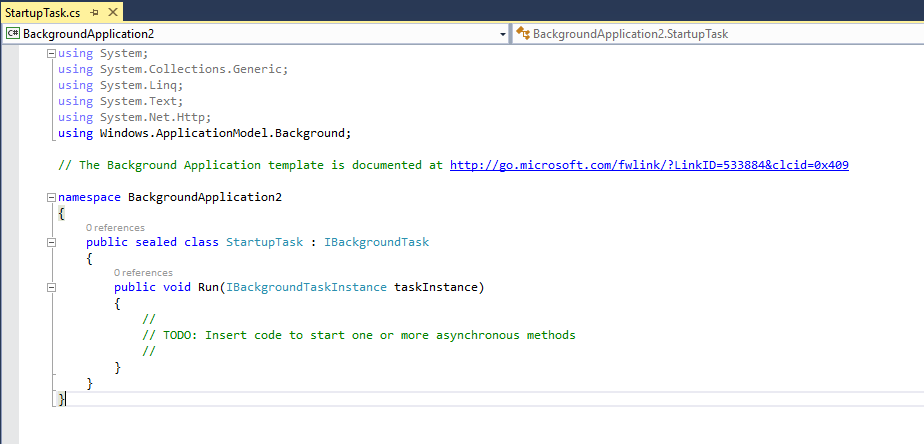
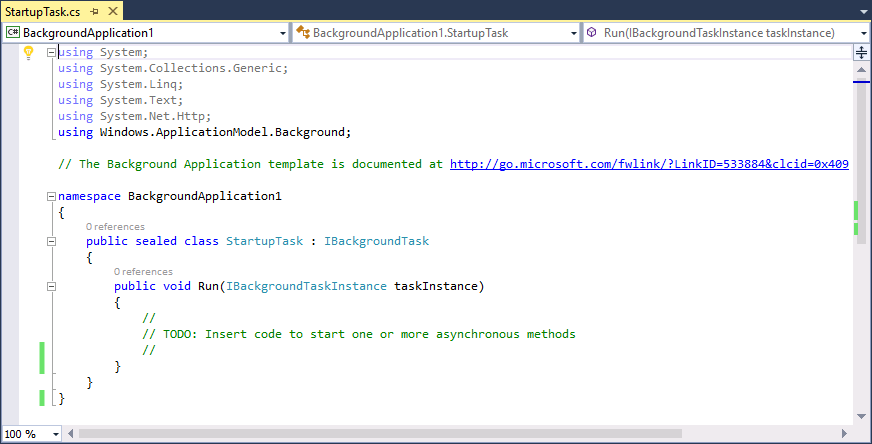
Add content to BackgroundApplication docs

diff --git a/en-US/win10/BackgroundApplications.md b/en-US/win10/BackgroundApplications.md
@@ -5,13 +5,114 @@ permalink: /en-US/win10/BackgroundApplications.htm
 lang: en-US
 ---
 
-##Background Applications
+#Developing Background Applications
 
-Background Applications are applications that have no direct UI. These applications launch at machine startup and run continuously without any process lifetime management resource use limitations. If they crash or exit the system will automatically restart them.
+Background Applications are applications that have no direct UI. Once deployed and configured, these applications launch at machine startup and run continuously without any process lifetime management resource use limitations. If they crash or exit the system will automatically restart them.
 These Background Applications have a very simple execution model. The templates create a class that implements the "IBackgroundTask" interface and generates the empty "Run" method. This "Run" method is the entry point to your application.
-
 
 ![IBackground Task]({{site.baseurl}}/images/BackgroundApplications/backgroundTaskScreenshot.png)
 
 There is one critical point to note: by default, the application will shut down when the run method completes. This means that apps that follow the common IoT pattern of running a server waiting for input or on a timer will find the app exit prematurely. To prevent this from happening you must call the "GetDeferral" method to prevent the application from exiting. You can find more information on the deferral pattern [here](https://msdn.microsoft.com/en-us/library/windows/apps/windows.applicationmodel.background.backgroundtaskdeferral.aspx).
+
+##Where can Background Applications be installed from? 
+
+You can download and install IoT templates to enable Background Applications from the Visual Studio Gallery [here](https://visualstudiogallery.msdn.microsoft.com/06507e74-41cf-47b2-b7fe-8a2624202d36).  Alternatively, the templates can be found by searching for `Windows IoT Core Project Templates` in the [Visual Studio Gallery](https://visualstudiogallery.msdn.microsoft.com/) or directly from Visual Studio in the Extension and Updates dialog (Tools > Extensions and Updates > Online).
+
+##What languages are available?
+
+**Background Application (IoT)** templates can be found for:
+
+* **C++** `File > New > Project > Installed > Visual C++ > Windows > Windows IoT Core`
+* **C#** `File > New > Project > Installed > Visual C# > Windows > Windows IoT Core`
+* **Visual Basic** `File > New > Project > Installed > Visual Basic > Windows > Windows IoT Core`
+* **JavaScript** `File > New > Project > Installed > JavaScript > Windows > Windows IoT Core`
+
+##How are Background Applications used? 
+
+Creating a Background Application is very similar to creating a Background Task.  When the Background Application starts, the Run method is called:
+
+{% highlight C++ %}
+public void Run(IBackgroundTaskInstance taskInstance)
+{
+}
+{% endhighlight %}
+
+When the Run method ends, unless a deferral object is created, the Background Application ends.  The common practice, for asynchronous programming is to take a deferral like this:
+
+{% highlight C++ %}
+private BackgroundTaskDeferral deferral;
+public void Run(IBackgroundTaskInstance taskInstance)
+{
+    deferral = taskInstance.GetDeferral();
+    
+    //
+    // TODO: Insert code to start one or more asynchronous methods
+    //
+}
+{% endhighlight %}
+
+Once a deferral is taken, the Background Application will continue until the deferral object's Complete method is called.
+
+{% highlight C++ %}
+
+deferral.Complete();
+
+{% endhighlight %}
+
+Between the Background Application's start and eventual end, most Universal Windows Platform (UWP) APIs are be available for use (to be aware of the exceptions, please see our list of [Unavailable APIs]({{site.baseurl}}/{{page.lang}}/win10/UnavailableApis.htm)).
+
+##How do Background Applications start?
+
+This question can be broken into deployment and invocation.  
+
+To deploy a Background Application, you can either:
+
+* Use Visual Studio's F5 (which will build, deploy and invoke).  For more detail, see our [Hello World sample]({{site.baseurl}}/{{page.lang}}/win10/samples/HelloWorld.htm#deploy-the-app-to-your-windows-iot-core-device) where we describe how to deploy and launch from Visual Studio.
+
+    **NOTE:** this will not configure your Background Application to start when the device boots.
+
+* Create an AppX in Visual Studio by selecting Project > Store > Create App Packages.  Once you have created an AppX, you can use [Web-based device management to deploy it]({{site.baseurl}}/{{page.lang}}/win10/tools/Webb.htm#apps) to your Windows 10 IoT Core device.
+
+To invoke a Background Application, you can either:
+
+* As mentioned above, Visual Studio's F5 functionality will deploy and immediately start your Background Application.
+
+    **NOTE:** this will not configure your Background Application to start when the device boots.
+
+* For a Background Application that has been deployed to an IoT device, you can use the iotstartup.exe utility to configure your Background Application to start when the device boots.  To specify your Background Application as a Startup App, follow these instructions (**substitute your app's name** for `BackgroundApplication1` below):
+
+    1. Start a PowerShell (PS) session with your Windows IoT Core device as described [here]({{site.baseurl}}/{{page.lang}}/win10/samples/PowerShell.htm).
+
+    2. From the PS session, type:
+
+            [192.168.0.243]: PS C:\> iotstartup list `BackgroundApplication1`
+
+    3. You should see the full name of your Background Application, i.e. something like:
+
+            Headed   : BackgroundApplication1-uwp_cqewk5knvpvee!App
+            Headless : BackgroundApplication1-uwp_1.0.0.0_x86__cqewk5knvpvee
+
+    4. The utility is confirming that your Background Application is an 'headless' application, and is installed correctly.  You will likely see a Headed entry as well for your Background Applications, but this can be disregarded.
+
+    5. Now, it's easy to set this app as a 'Startup App'. Just type the command:
+
+            [192.168.0.243]: PS C:\> iotstartup add headless `BackgroundApplication1`
+
+    6. The utility will confirm that your Background Application has been added to the list of headless 'Startup Apps':
+
+            Added Headless: BackgroundApplication1-uwp_1.0.0.0_x86__cqewk5knvpveeplication1
+
+    7. Go ahead and restart your Windows IoT Core device. From the PS session, you can issue the shutdown command:
+
+            [192.168.0.243]: PS C:\> shutdown /r /t 0
+
+    8. Once the device has restarted, your Background Application will start automatically and Windows 10 IoT Core will make sure that it gets restarted anytime it stops.
+
+    9. You can remove your Background Application from the list of headless Startup Apps by typing the command:
+
+            [192.168.0.243]: PS C:\> iotstartup remove headless `BackgroundApplication1`
+
+    10. The utility will confirm that your Background Application has been removed from the list of headless 'Startup Apps':
+
+            Removed headless: BackgroundApplication1-uwp_1.0.0.0_x86__cqewk5knvpvee
 
